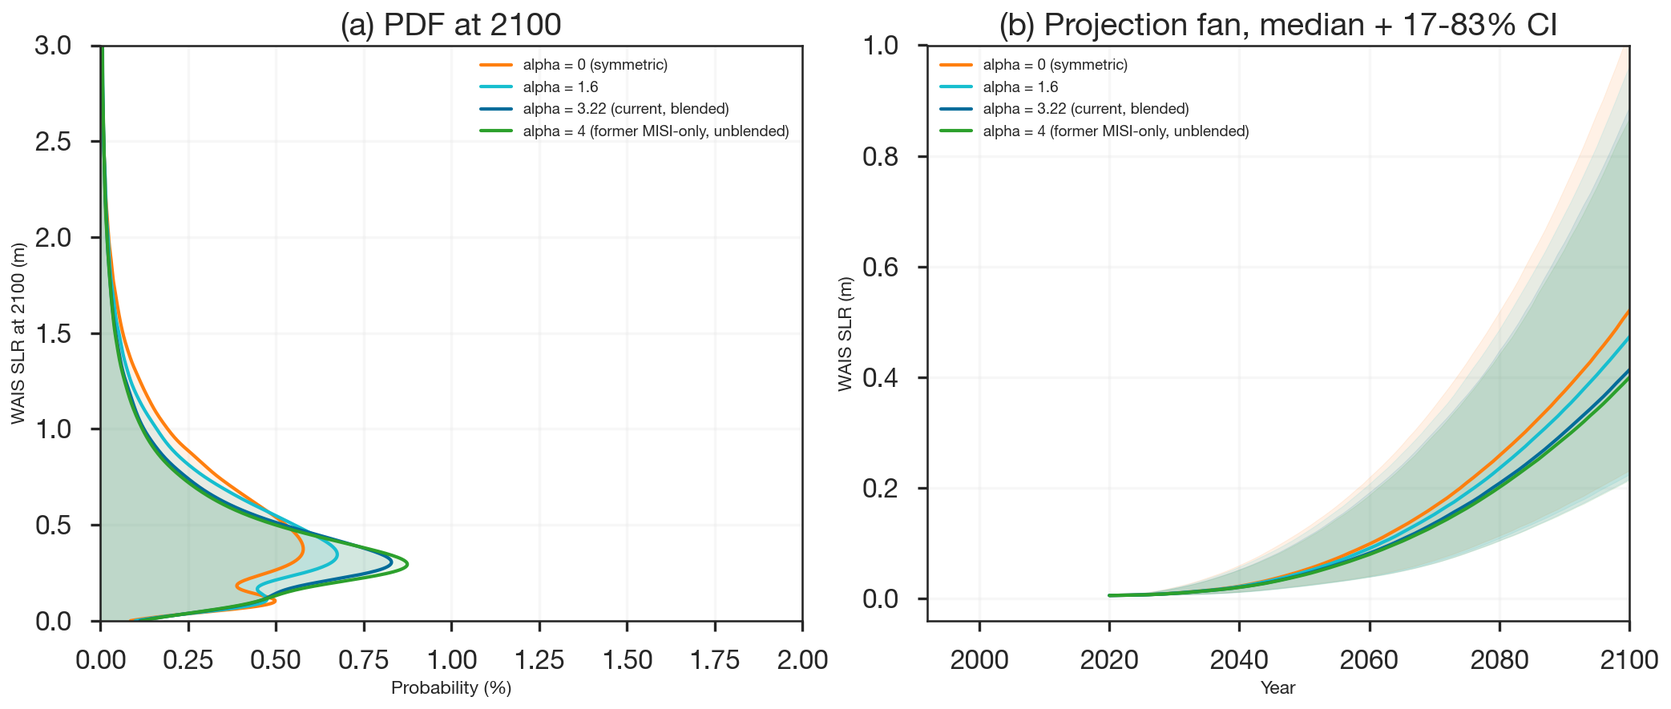
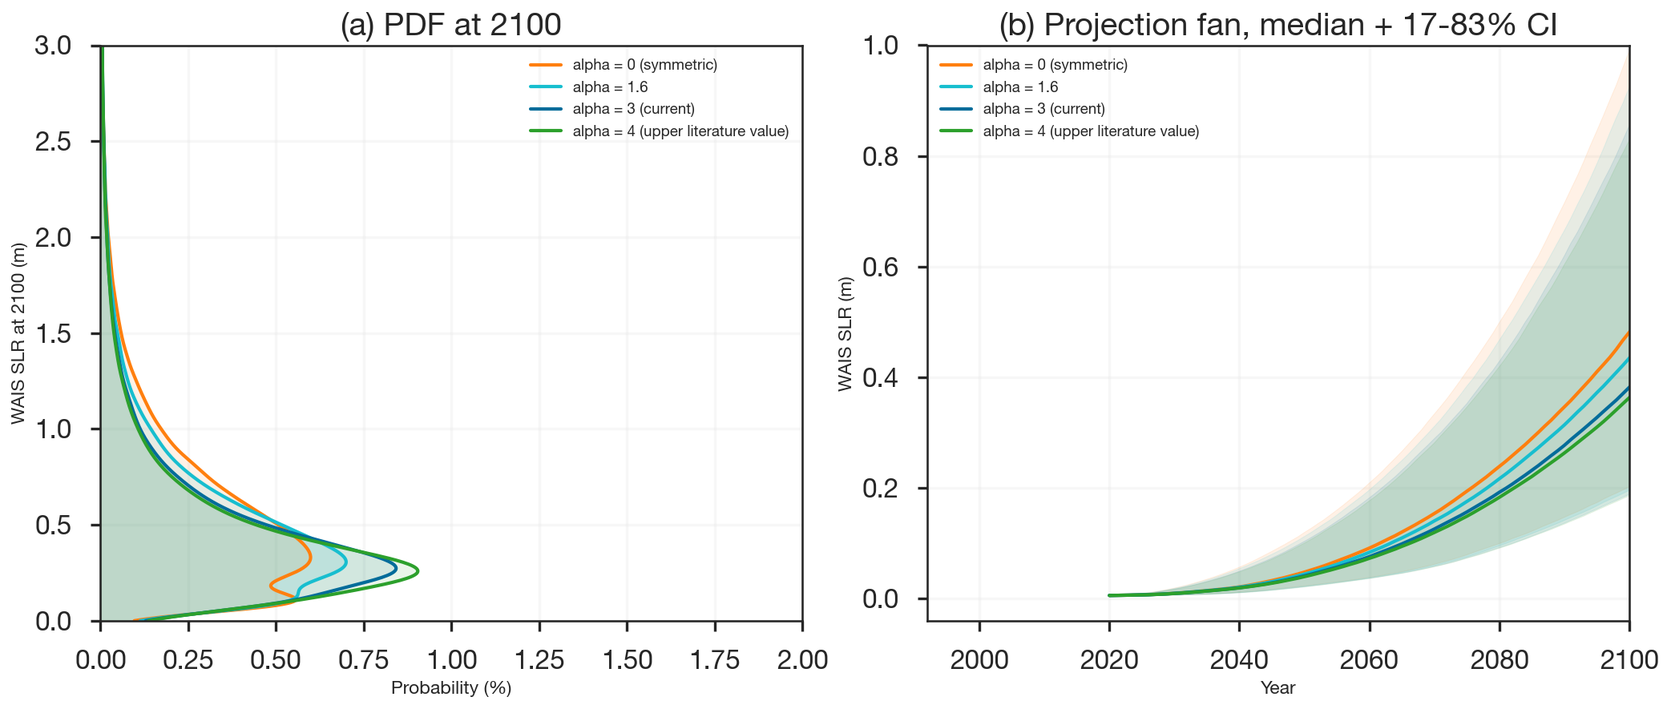
Pin S2's lower bound to S1's 99th percentile instead of an independent basin-by-basin sum
S2_fast_wais's low_mm changes from 150 mm (a basin-by-basin accounting
of Thwaites/PIG/Smith-Kohler/other-ASE/non-ASE retreat, floored to
compensate for known low biases in the underlying n=3 models) to 130 mm,
pinned to the 99th percentile of S1_status_quo's endpoint distribution.

The basin-by-basin derivation could not be defended to better than
several tens of mm, so the precision it implied was not earning its
complexity. The new bound is logically simpler and at least as
defensible: MISI-triggered outcomes are expected to exceed anything a
continued no-instability trend can produce, so S2's floor is set just
above S1's extreme tail. It is not merely asserted, either -- it lands
within 1 mm of the independent basin-by-basin sum (~130 mm unfloored),
which is now cited as a cross-check rather than the primary derivation.

This measurably shifts the WAIS mixture's median (0.42 -> 0.38 m) and
Scenario 2's own range (0.15-1.3 -> 0.13-1.3 m), unlike the earlier
alpha=3 simplification, whose effect on the median was negligible. All
downstream WAIS-only sensitivity figures, the validation cell, and the
manuscript's WAIS paragraph, Bamber cross-check, and weight-sensitivity
numbers are updated to match recomputed values.

- component_projections.py: low_mm 150 -> 130; rewrote the derivation
  comment to lead with the S1-tail logic.
- test_wais_sampling.py: added test_s2_low_mm_pinned_to_s1_p99.
- component_wais.ipynb: updated cells 0/4 (derivation text) and
[…]

diff --git a/slr_forecast/manuscripts/00_ddpi_slrforecast2026/v1/01_slr_forecast_intervention2026_supp.tex b/slr_forecast/manuscripts/00_ddpi_slrforecast2026/v1/01_slr_forecast_intervention2026_supp.tex
@@ -178,7 +178,7 @@ The framework comprises two scenarios spanning the range from stable WAIS (no in
 \begin{itemize}
 \item \textbf{S1: Status quo} ($P = 0.10$; median 90~mm, 90\% CI [61, 118]~mm at 2100). No marine ice sheet instability operates. Because S1 has no MISI by construction, it requires no forward physical model: it is sampled directly from a Bayesian quadratic-in-time fit to the observed IMBIE WAIS record (1992--2020)---position under constant acceleration, $H(t) = 0.5\,a\,(t-2000)^2 + v\,(t-2000) + H_0$, where $a$ is the acceleration, $v$ the velocity (rate) at $t=2000$, and $H_0$ the value at $t=2000$---with a signed prior on the acceleration $a$ (a purely time-based fit has no directional physical constraint, and the record shows both acceleration through ${\sim}2010$ and deceleration after), using a correlation-aware covariance correction for the same reason applied to the other components' level-space fits. This is the most direct ``nothing new happens'' baseline available, requiring no assumption about future ocean-warming magnitude or melt-discharge sensitivity coefficients. An earlier version of S1 used a forward physical scaling instead (lower bound: IMBIE time-averaged rate extrapolated linearly; upper bound: peak rate ramped by a projected Amundsen Sea ocean-warming enhancement factor \citep{Naughten2023}), giving 25--85~mm---a range the quadratic fit's 90\% CI barely overlaps, because that scaling assumed a linear rate ramp applied to a record that is better described as quadratic (accelerating): the fitted curvature term alone accounts for 82\% of the projected 2100 value. We adopt the data-driven fit as more representative of what a true continuation of observed behavior implies.
 
-\item \textbf{S2: Fast WAIS (MISI + MICI)} ($P = 0.90$; 150--1300~mm at 2100; $\alpha = 3$). Marine ice sheet instability drives accelerating grounding-line retreat on retrograde beds, with amplification from processes that current models omit (calving, subglacial hydrology, ice damage), possibly compounded by marine ice cliff instability (MICI), in which loss of buttressing ice shelves exposes ice cliffs that exceed the yield strength of ice, triggering structural failure and rapid retreat \citep{Bassis2012, DeContoP2016}. The lower bound (150~mm) is anchored to transient-calibrated ice sheet model projections (Goldberg et~al.~\citeyearpar{Goldberg2026}) and observed grounding-line retreat rates (Rignot et~al.~\citeyearpar{Rignot2026}), unchanged from the former MISI-only scenario. The upper bound (1300~mm) is pinned to the IPCC AR6 low-confidence Antarctic ice sheet 95th percentile under SSP5-8.5 \citep{Fox-Kemper2021}: 1309~mm, rounded---so that this bound now governs the full 90\% weight of the fast branch rather than only the 10\%-weight MICI tail of the former three-scenario version. This anchoring is appropriate because the AR6 low-confidence projection incorporates the deep-uncertainty processes (MISI + MICI) that define this scenario; for GMSL purposes, it is immaterial whether ice loss originates from WAIS or from marine basins of EAIS---both contribute to the same global ocean---and in the AR6 low-confidence storyline, WAIS dominates but EAIS marine basins also contribute. The upper bound additionally matches the Amundsen Sea Embayment ice volume above flotation ($V_{af} \approx 1100$~mm; \citealp{Morlighem2020}), providing an independent cross-check estimate. The skewness ($\alpha = 3$) reflects the grounding-line flux nonlinearity that amplifies uncertainty toward greater ice loss once MISI is triggered: Robel et~al.~\citeyearpar{Robel2019} showed that this nonlinearity ($q_g \propto h_g^{\,n+1}$, where $h_g$ is grounding-line thickness; \citealp{Schoof2007}) skews the uncertainty distribution toward greater ice loss when the nonlinearity exponent exceeds 3 (realistic values are 4--5). We adopt a round, representative value rather than fitting to a target percentile: $\alpha$ only reshapes the distribution between its fixed 5th/95th percentile bounds, which are set independently of $\alpha$, and the mixture is insensitive to its precise value---a sensitivity sweep over $\alpha \in [0, 4]$ shifts the mixture median by at most 0.13~m. The trajectory follows a power-law ramp $H(t) = H_{\mathrm{anchor}} + H_{\mathrm{remaining}} \cdot [(t - t_a)/(2100 - t_a)]^\beta$, where the trajectory exponent $\beta$ is drawn from a log-normal distribution with median 1.84 and log-standard deviation 0.3, derived from the Schoof~\citeyearpar{Schoof2007} grounding-line flux scaling as described in the ``Temporal trajectory'' section below.
+\item \textbf{S2: Fast WAIS (MISI + MICI)} ($P = 0.90$; 130--1300~mm at 2100; $\alpha = 3$). Marine ice sheet instability drives accelerating grounding-line retreat on retrograde beds, with amplification from processes that current models omit (calving, subglacial hydrology, ice damage), possibly compounded by marine ice cliff instability (MICI), in which loss of buttressing ice shelves exposes ice cliffs that exceed the yield strength of ice, triggering structural failure and rapid retreat \citep{Bassis2012, DeContoP2016}. The lower bound (130~mm) is pinned to the 99th percentile of S1's endpoint distribution: MISI-triggered outcomes are expected to exceed anything a continued no-instability trend can produce, so S2's floor is set just above S1's extreme tail rather than derived from an independent basin-by-basin accounting, which cannot be defended to better than several tens of mm. This bound is not merely asserted, however: it coincides closely with an independent basin-by-basin sum (Thwaites, Pine Island, Smith/Kohler, other Amundsen Sea Embayment basins, and non-ASE WAIS) built from transient-calibrated ice sheet model projections (Goldberg et~al.~\citeyearpar{Goldberg2026}) and observed grounding-line retreat rates (Rignot et~al.~\citeyearpar{Rignot2026}), which gives $\approx$130~mm. The upper bound (1300~mm) is pinned to the IPCC AR6 low-confidence Antarctic ice sheet 95th percentile under SSP5-8.5 \citep{Fox-Kemper2021}: 1309~mm, rounded---so that this bound now governs the full 90\% weight of the fast branch rather than only the 10\%-weight MICI tail of the former three-scenario version. This anchoring is appropriate because the AR6 low-confidence projection incorporates the deep-uncertainty processes (MISI + MICI) that define this scenario; for GMSL purposes, it is immaterial whether ice loss originates from WAIS or from marine basins of EAIS---both contribute to the same global ocean---and in the AR6 low-confidence storyline, WAIS dominates but EAIS marine basins also contribute. The upper bound additionally matches the Amundsen Sea Embayment ice volume above flotation ($V_{af} \approx 1100$~mm; \citealp{Morlighem2020}), providing an independent cross-check estimate. The skewness ($\alpha = 3$) reflects the grounding-line flux nonlinearity that amplifies uncertainty toward greater ice loss once MISI is triggered: Robel et~al.~\citeyearpar{Robel2019} showed that this nonlinearity ($q_g \propto h_g^{\,n+1}$, where $h_g$ is grounding-line thickness; \citealp{Schoof2007}) skews the uncertainty distribution toward greater ice loss when the nonlinearity exponent exceeds 3 (realistic values are 4--5). We adopt a round, representative value rather than fitting to a target percentile: $\alpha$ only reshapes the distribution between its fixed 5th/95th percentile bounds, which are set independently of $\alpha$, and the mixture is insensitive to its precise value---a sensitivity sweep over $\alpha \in [0, 4]$ shifts the mixture median by at most 0.13~m. The trajectory follows a power-law ramp $H(t) = H_{\mathrm{anchor}} + H_{\mathrm{remaining}} \cdot [(t - t_a)/(2100 - t_a)]^\beta$, where the trajectory exponent $\beta$ is drawn from a log-normal distribution with median 1.84 and log-standard deviation 0.3, derived from the Schoof~\citeyearpar{Schoof2007} grounding-line flux scaling as described in the ``Temporal trajectory'' section below.
 \end{itemize}
 
 \subsubsubsection{Scenario weights}
@@ -274,13 +274,13 @@ Our scenario ranges exceed IPCC AR6 medium-confidence projections for WAIS. This
 
 \subsubsubsection{Independent cross-check: structured expert judgment}
 
-The Bamber et~al.~\citeyearpar{Bamber2019} structured expert judgment (SEJ) provides an independent, methodology-orthogonal validation target. Their WAIS-specific results under $+5\,^\circ$C warming give a median of 180~mm and 95th percentile of 930~mm, with strong positive skew. Our A4 mixture (median ${\sim}410$~mm, 90\% CI: 90--1630~mm) is wider and shifted higher than the Bamber estimates. This is expected because: (a)~Bamber was published before the rheology bias was quantified \citep{Martin2026}; (b)~the SEJ was conducted before Morlighem et~al.~\citeyearpar{Morlighem2024} and recent Thwaites observations that have added to the evidence for ongoing instability; and (c)~our framework explicitly applies the rheology correction, which shifts the entire distribution upward by ${\sim}28\%$. The agreement in the broad distributional shape---strongly right-skewed, with median in the hundreds of millimeters---strengthens confidence in both approaches despite their different methodologies.
+The Bamber et~al.~\citeyearpar{Bamber2019} structured expert judgment (SEJ) provides an independent, methodology-orthogonal validation target. Their WAIS-specific results under $+5\,^\circ$C warming give a median of 180~mm and 95th percentile of 930~mm, with strong positive skew. Our A4 mixture (median ${\sim}380$~mm, 90\% CI: 90--1630~mm) is wider and shifted higher than the Bamber estimates. This is expected because: (a)~Bamber was published before the rheology bias was quantified \citep{Martin2026}; (b)~the SEJ was conducted before Morlighem et~al.~\citeyearpar{Morlighem2024} and recent Thwaites observations that have added to the evidence for ongoing instability; and (c)~our framework explicitly applies the rheology correction, which shifts the entire distribution upward by ${\sim}28\%$. The agreement in the broad distributional shape---strongly right-skewed, with median in the hundreds of millimeters---strengthens confidence in both approaches despite their different methodologies.
 
 As a second cross-check, Rosier et~al.~\citeyearpar{Rosier2025} calibrated an ice sheet model (\'Ua) against ASE observations using Bayesian inference with deep surrogates and projected Amundsen Sea sector contributions of $19.0 \pm 2.2$~mm (Paris 2$\,^\circ$C) and $18.9 \pm 2.7$~mm (RCP8.5) by 2100---statistically indistinguishable across scenarios, supporting the SSP-independence assumption adopted here. Their calibrated contribution (${\sim}19$~mm) falls below our S1 range (median 90~mm, 90\% CI [61, 118]~mm), consistent with the expectation that a single process model calibrated against the short observational record produces a more conservative estimate than a statistical extrapolation of the same record with propagated parameter uncertainty. Rosier et~al.\ include both cliff-height- and hydrofracture-driven calving but find no evidence of unstable calving-front retreat in any simulation, and their creep-exponent prior ($n \in [2, 5]$, uniform) is broad but centered lower than the satellite-derived $n = 4.1 \pm 0.4$ \citep{Millstein2022}. Their narrow uncertainty range (${\sim}5$~mm, $1\sigma$) reflects the structural constraints of a single model rather than the epistemic uncertainty that our scenario mixture model is designed to represent.
 
 \subsubsubsection{Sensitivity to scenario weights}
 
-To assess the robustness of the A4 mixture to the assigned scenario weight, we sweep $P(\mathrm{S1})$---the only free weight parameter, since $P(\mathrm{S2}) = 1 - P(\mathrm{S1})$ with only two scenarios---over 0--30\% and examine the effect on the mixture median and 95th percentile at 2100 (Fig.~\ref{fig:wais_weight_sensitivity}). Over this range, the median varies from 0.45~m ($P(\mathrm{S1})=0$) to 0.32~m ($P(\mathrm{S1})=0.30$), a span of ${\sim}0.13$~m around the baseline value of 0.42~m at $P(\mathrm{S1})=0.10$---small relative to the 90\% credible interval (${\sim}1.6$~m). The 95th percentile varies from 1.72~m to 1.46~m over the same range, a span of ${\sim}0.26$~m (${\sim}16\%$ of the baseline value, 1.63~m). The insensitivity of both statistics to the scenario weight reflects the dominance of within-scenario uncertainty (controlled by the endpoint ranges and skewness) over the between-scenario weighting.
+To assess the robustness of the A4 mixture to the assigned scenario weight, we sweep $P(\mathrm{S1})$---the only free weight parameter, since $P(\mathrm{S2}) = 1 - P(\mathrm{S1})$ with only two scenarios---over 0--30\% and examine the effect on the mixture median and 95th percentile at 2100 (Fig.~\ref{fig:wais_weight_sensitivity}). Over this range, the median varies from 0.42~m ($P(\mathrm{S1})=0$) to 0.29~m ($P(\mathrm{S1})=0.30$), a span of ${\sim}0.13$~m around the baseline value of 0.38~m at $P(\mathrm{S1})=0.10$---small relative to the 90\% credible interval (${\sim}1.6$~m). The 95th percentile varies from 1.70~m to 1.46~m over the same range, a span of ${\sim}0.24$~m (${\sim}15\%$ of the baseline value, 1.63~m). The insensitivity of both statistics to the scenario weight reflects the dominance of within-scenario uncertainty (controlled by the endpoint ranges and skewness) over the between-scenario weighting.
 
 \begin{figure}[ht]
 \centering
@@ -346,7 +346,7 @@ Component & Parameter & Prior & Source / justification \\
  & $P(\mathrm{S1})$ & 0.10 & Assessed: continued present-day rates \\
  & $P(\mathrm{S2})$ & 0.90 & Assessed: MISI-driven acceleration, with or without MICI \\
  & S1 endpoint & Direct posterior, median 90, [61, 118]~mm & Quadratic-in-time fit to IMBIE (1992--2020) \\
- & S2 endpoint & $\mathrm{SN}_{\log}(\alpha=3)$, 150--1300~mm & Goldberg et~al.\ lower bound; AR6 low-confidence AIS p95 upper bound \\
+ & S2 endpoint & $\mathrm{SN}_{\log}(\alpha=3)$, 130--1300~mm & S1's 99th percentile lower bound; AR6 low-confidence AIS p95 upper bound \\
  & S2 trajectory $\beta$ & $\mathrm{LN}(\ln 1.84, 0.3^2)$ & MISI acceleration, back-loaded; Schoof (2007) scaling \\
  & $n_{\mathrm{draw}}$ (Mode~B) & $\mathrm{N}(4.1, 0.4^2)$, $n \geq 3$ & Millstein et~al.; Ranganathan \& Minchew \\
  & $r_0$ (rheology sensitivity) & $0.28$ & Martin et~al.; $R(n) = 1 + r_0\,(n - 3)$ \\

diff --git a/slr_forecast/manuscripts/00_ddpi_slrforecast2026/v1/01_slr_forecast_intervention2026.tex b/slr_forecast/manuscripts/00_ddpi_slrforecast2026/v1/01_slr_forecast_intervention2026.tex
@@ -353,7 +353,7 @@ WAIS is the largest source of uncertainty in sea-level projections \citep{Fox-Ke
 
 No physical process models have been proven to reproduce observed trends \citep{Aschwanden2021} and we find insufficient data coverage and duration to support a data-driven forecast like those described above. To provide a representative range of uncertainties, we construct a scenario-mixture framework, or `storyline', meant to broadly represent the scientific literature (Fig.***). This approach cannot provide, nor should it be interpreted as, a robust probability distribution. We define two scenarios entitled `slow WAIS' and `fast WAIS' that are comparable to the medium and low confidence scenarios of IPCC AR6, respectively.
 
- Scenario 1: `slow WAIS', where no marine ice sheet instability operates and mass loss simply continues the observed 1992--2020 IMBIE discharge record and its recent acceleration forward, sampled directly from a Bayesian quadratic-in-time fit to that record rather than a forward physical model. This scenario gives a median of 90 mm and a 90\% CI of 61--118 mm GMSLR contribution by 2100. Based on the changes in WAIS discharge over the past decades and the position by the IPCC AR6, we take this scenario to be unlikely, and assign it a 10\% probability. Scenario 2, `fast WAIS', represents MISI-driven acceleration and grounding-line retreat, with or without the additional cascading structural failure of ice cliffs known as marine ice cliff instability (MICI), yielding a GMSL contribution of 0.15--1.3 m by 2100. The lower value is anchored to transient-calibrated ice sheet model projections \citep{Goldberg2026} and the observed 33 km grounding-line retreat at Pine Island Glacier since 1992 \citep{Rignot2026}; the upper bound is pinned to the IPCC AR6 low-confidence Antarctic Ice Sheet 95th percentile under SSP5-8.5 \citep{Fox-Kemper2021}. We assign Scenario 2 a 90\% probability, consistent with IPCC AR6 `deep uncertainty' framing for the processes it spans. The Scenario 2 endpoint is drawn from a skew-normal distribution in log-space with physically motivated asymmetry \citep{Robel2019}, and a multiplicative rheology correction ($R$ with median $R = 1.3$) is applied to it, reflecting the underestimation of ice loss when models assume the ice-viscosity stress exponent $n = 3$ rather than the observationally constrained value $n = 4.1\pm0.4$ \citep{Millstein2022,GetraerMorlighem2025,Martin2026}; this correction is not applied to Scenario 1, which is grounded in observed mass balance rather than an ISMIP6-class ice-sheet model. The resulting mixture has a median 21st century sea-level rise of 0.41 m with a 0.09 to 1.63 m 90\% CI at 2100. We refer to this mixed model as `fast WAIS' because it allows for, but does not force, rapid ice mass loss (Scenario 2).
+ Scenario 1: `slow WAIS', where no marine ice sheet instability operates and mass loss simply continues the observed 1992--2020 IMBIE discharge record and its recent acceleration forward, sampled directly from a Bayesian quadratic-in-time fit to that record rather than a forward physical model. This scenario gives a median of 90 mm and a 90\% CI of 61--118 mm GMSLR contribution by 2100. Based on the changes in WAIS discharge over the past decades and the position by the IPCC AR6, we take this scenario to be unlikely, and assign it a 10\% probability. Scenario 2, `fast WAIS', represents MISI-driven acceleration and grounding-line retreat, with or without the additional cascading structural failure of ice cliffs known as marine ice cliff instability (MICI), yielding a GMSL contribution of 0.13--1.3 m by 2100. The lower value is pinned to the 99th percentile of Scenario 1's endpoint distribution, since MISI-triggered outcomes are expected to exceed anything a continued no-instability trend can produce; this coincides closely with an independent basin-by-basin estimate built from transient-calibrated ice sheet model projections \citep{Goldberg2026} and the observed 33 km grounding-line retreat at Pine Island Glacier since 1992 \citep{Rignot2026}. The upper bound is pinned to the IPCC AR6 low-confidence Antarctic Ice Sheet 95th percentile under SSP5-8.5 \citep{Fox-Kemper2021}. We assign Scenario 2 a 90\% probability, consistent with IPCC AR6 `deep uncertainty' framing for the processes it spans. The Scenario 2 endpoint is drawn from a skew-normal distribution in log-space with physically motivated asymmetry \citep{Robel2019}, and a multiplicative rheology correction ($R$ with median $R = 1.3$) is applied to it, reflecting the underestimation of ice loss when models assume the ice-viscosity stress exponent $n = 3$ rather than the observationally constrained value $n = 4.1\pm0.4$ \citep{Millstein2022,GetraerMorlighem2025,Martin2026}; this correction is not applied to Scenario 1, which is grounded in observed mass balance rather than an ISMIP6-class ice-sheet model. The resulting mixture has a median 21st century sea-level rise of 0.38 m with a 0.09 to 1.63 m 90\% CI at 2100. We refer to this mixed model as `fast WAIS' because it allows for, but does not force, rapid ice mass loss (Scenario 2).
 
 Sensitivity tests of the scenario weight show the chosen weight does not qualitatively impact the findings of this study.
 

diff --git a/slr_forecast/notebooks/component_projections.py b/slr_forecast/notebooks/component_projections.py
@@ -75,11 +75,16 @@ except ImportError:
 #     al. 2021: p95=1309 mm, rounded), so that bound now governs the full
 #     90% weight of the fast branch rather than only the 10%-weight MICI
 #     tail of the former three-scenario version. Its 5th-percentile bound
-#     (low_mm=150 mm) is unchanged from the former S2 and remains the
-#     basin-by-basin physically derived MISI-onset minimum (Thwaites + PIG
-#     + Smith/Kohler + other ASE + non-ASE ≈ 130 mm, floored to 150 mm for
-#     the known low bias documented in Goldberg et al. 2026), independent
-#     of the AR6 anchor. `alpha=3` gives the endpoint distribution a
+#     (low_mm=130 mm) is pinned to the 99th percentile of S1_status_quo's
+#     endpoint distribution: MISI-triggered outcomes are expected to
+#     exceed anything a continued no-instability trend can produce, so
+#     S2's floor is set just above S1's extreme tail rather than derived
+#     from an independent basin-by-basin accounting (Thwaites + PIG +
+#     Smith/Kohler + other ASE + non-ASE), which cannot be defended to
+#     better than several tens of mm and is not needed once S2 is
+#     anchored to S1 directly -- this bound happens to coincide closely
+#     with that basin-by-basin estimate (~130 mm unfloored) as an
+#     independent cross-check. `alpha=3` gives the endpoint distribution a
 #     right skew, reflecting the grounding-line flux nonlinearity that
 #     amplifies uncertainty toward greater ice loss once MISI is
 #     triggered (Robel et al. 2019); alpha only reshapes the distribution
@@ -91,7 +96,7 @@ except ImportError:
 
 A4_SCENARIOS = {
     'S1_status_quo': {'P': 0.10, 'misi': False},
-    'S2_fast_wais':  {'P': 0.90, 'low_mm': 150, 'high_mm': 1300,
+    'S2_fast_wais':  {'P': 0.90, 'low_mm': 130, 'high_mm': 1300,
                       'alpha': 3.0,
                       'beta_loc': np.log(1.84), 'beta_scale': 0.3,
                       'misi': True},

diff --git a/slr_forecast/tests/test_wais_sampling.py b/slr_forecast/tests/test_wais_sampling.py
@@ -600,6 +600,17 @@ class TestA4ScenarioParameters:
         s2 = A4_SCENARIOS['S2_fast_wais']
         assert np.percentile(s1_samples_mm, 95) < s2['high_mm']
 
+    def test_s2_low_mm_pinned_to_s1_p99(self):
+        """S2's low_mm should be pinned to (approximately) the 99th
+        percentile of S1's endpoint distribution: MISI-triggered outcomes
+        are expected to exceed anything a continued no-instability trend
+        can produce, so S2's floor is set just above S1's extreme tail."""
+        rng = np.random.default_rng(0)
+        s1_samples_mm = _sample_s1_quadratic_mm(200_000, rng, [2100.0])[:, 0]
+        s1_p99 = np.percentile(s1_samples_mm, 99)
+        s2 = A4_SCENARIOS['S2_fast_wais']
+        assert s2['low_mm'] == pytest.approx(s1_p99, abs=5.0)
+
     def test_s2_high_mm_pinned_to_ar6_low_confidence(self):
         """S2_fast_wais's 95th percentile should match the IPCC AR6
         low-confidence AIS SSP5-8.5 storyline (p95 ~= 1309 mm, rounded to

diff --git a/slr_forecast/manuscripts/00_ddpi_slrforecast2026/a4_scenario_justification.md b/slr_forecast/manuscripts/00_ddpi_slrforecast2026/a4_scenario_justification.md
@@ -11,7 +11,7 @@ reviewer with deep expertise in ice sheet modeling.
 | Scenario | P | Range (mm, 2100) | α | Physics |
 |----------|---|-------------------|---|---------|
 | S1: Status quo | 0.10 | 61–118 (median 90) | n/a | No MISI; direct posterior sampling from a quadratic-in-time fit to observed IMBIE discharge |
-| S2: Fast WAIS (MISI + MICI) | 0.90 | 150–1300 | +3 | MISI, with or without ice-cliff cascade; upper bound pinned to AR6 low-confidence AIS p95 |
+| S2: Fast WAIS (MISI + MICI) | 0.90 | 130–1300 | +3 | MISI, with or without ice-cliff cascade; upper bound pinned to AR6 low-confidence AIS p95; lower bound pinned to S1's 99th percentile |
 
 ### Why two scenarios, not three
 
@@ -243,18 +243,20 @@ wrong, but it answers a narrower question (what a linear ocean-forcing
 response would give) than S1 is now built to represent (what happens if
 the observed trend, whatever is driving it, simply continues).
 
-### S2: 150–1300 mm (Fast WAIS: MISI, with or without MICI)
+### S2: 130–1300 mm (Fast WAIS: MISI, with or without MICI)
 
-This merges the former S2 (150–1000 mm, moderate MISI) and S3 (600–1300 mm,
-MISI+MICI) ranges. The lower bound is unchanged from the former S2; the
-upper bound is unchanged from the former S3, now serving as the pin for the
-entire merged scenario.
+**Lower bound (130 mm), pinned to S1's extreme tail:**
 
-**Lower bound (150 mm), basin-by-basin derivation:**
-
-Anchored to transient-calibrated ice sheet model projections (Goldberg,
-Morlighem & Gourmelen, 2026, GRL) and observed grounding-line retreat rates
-(Rignot et al., 2026, PNAS):
+MISI-triggered outcomes are expected to exceed anything a continued
+no-instability trend can produce, so S2's floor is set at the 99th
+percentile of S1_status_quo's endpoint distribution (§3) rather than
+derived independently. This is simpler and no less defensible than a
+basin-by-basin accounting — the earlier version of this bound could not
+be defended to better than several tens of mm in either direction — and
+it is not merely asserted: an independent basin-by-basin sum, built from
+transient-calibrated ice sheet model projections (Goldberg, Morlighem &
+Gourmelen, 2026, GRL) and observed grounding-line retreat rates (Rignot
+et al., 2026, PNAS), lands at essentially the same value:
 
 - *Thwaites* (~40 mm): Goldberg et al. (2026) calibrated two independent
   models (STREAMICE, ISSM) against observed surface elevation changes and
@@ -271,10 +273,12 @@ Morlighem & Gourmelen, 2026, GRL) and observed grounding-line retreat rates
 - *Non-ASE WAIS* (~30 mm): Basins without MISI (Siple Coast, Marie Byrd
   Land) contributing at S1-like rates.
 
-The maximally conservative sum (~130 mm) understates the lower bound because
-of the documented low biases in the underlying models (n=3, no calving, no
-subglacial hydrology, premature rate stabilization); the 150 mm floor
-accounts for these known biases without overcorrecting.
+This basin-by-basin sum (~130 mm) is itself a lower bound, since the
+underlying models carry documented low biases (n=3, no calving, no
+subglacial hydrology, premature rate stabilization) — but we no longer
+need to guess at a floor to compensate for those biases, since the
+S1-tail-based value already accounts for them and happens to coincide
+with the raw sum almost exactly.
 
 **Upper bound (1300 mm), pinned to the IPCC AR6 low-confidence storyline:**
 
@@ -339,7 +343,7 @@ greater ice loss once MISI is triggered (Robel et al. 2019, below). We
 adopt a round, representative value from the literature rather than
 deriving a precise number from a blend of sub-regimes: α only reshapes
 the distribution's interior between its fixed 5th/95th percentile bounds
-(150–1300 mm, set independently of α, §3), and a sensitivity sweep over
+(130–1300 mm, set independently of α, §3), and a sensitivity sweep over
 α ∈ [0, 4] shifts the mixture median by at most 0.13 m — smaller than any
 plausible reader's tolerance for precision in a shape parameter, so
 additional precision (e.g., a fitted or blended value like 3.22) buys
